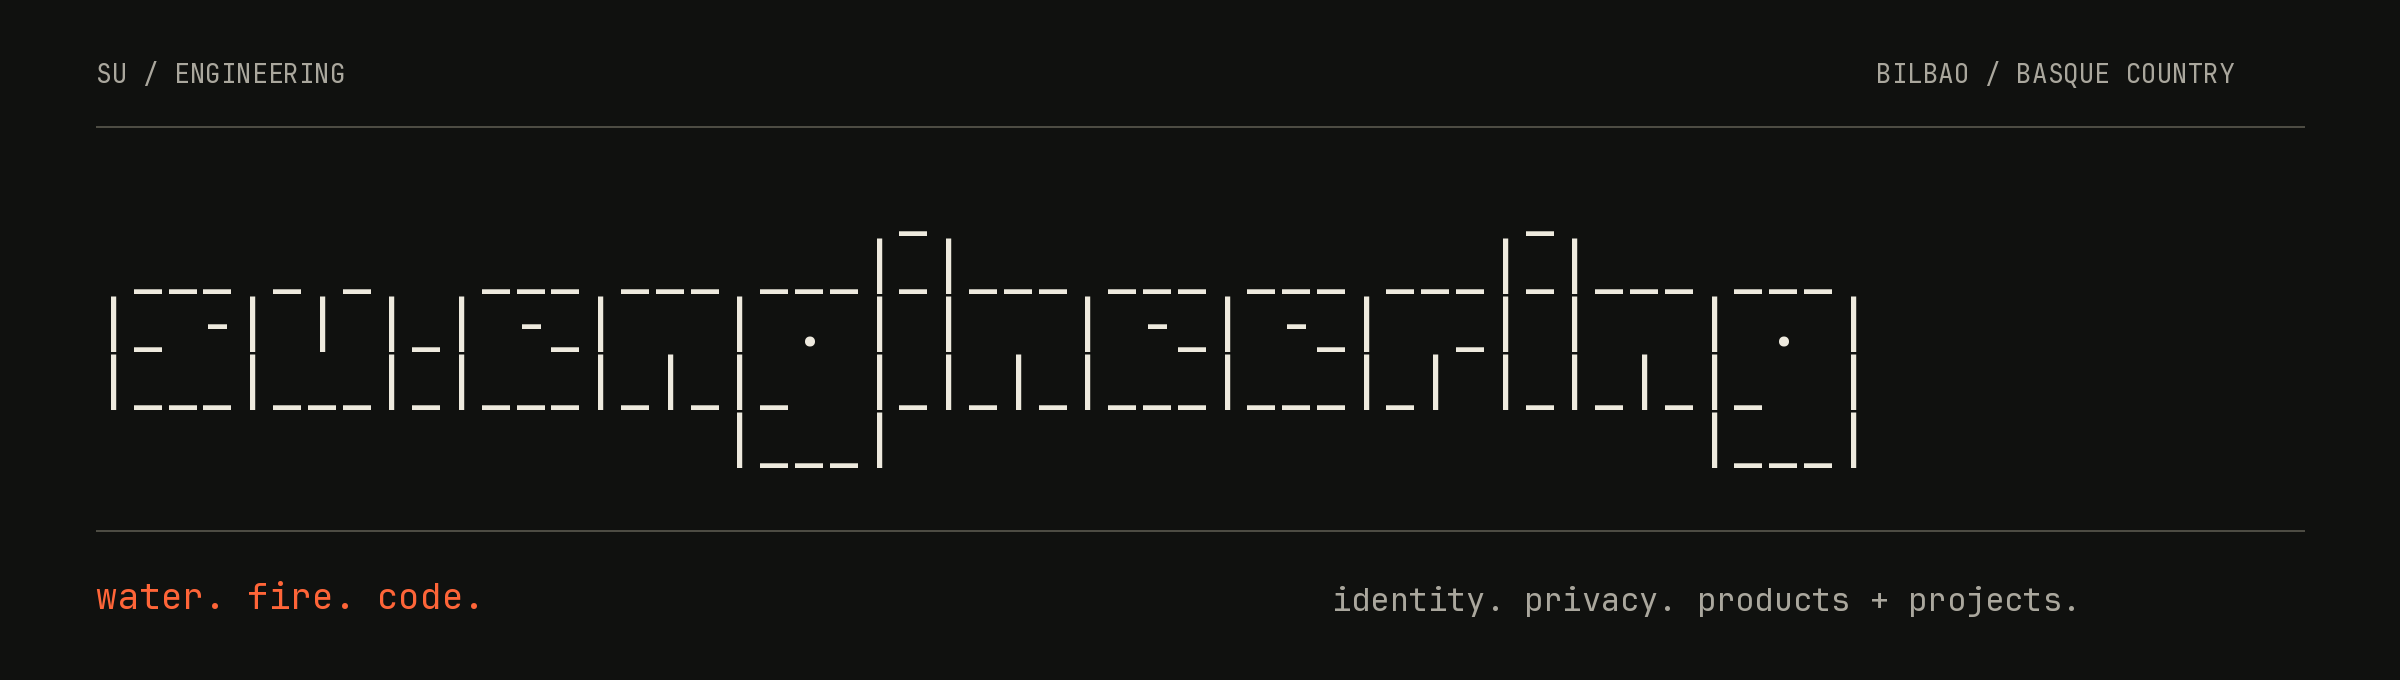
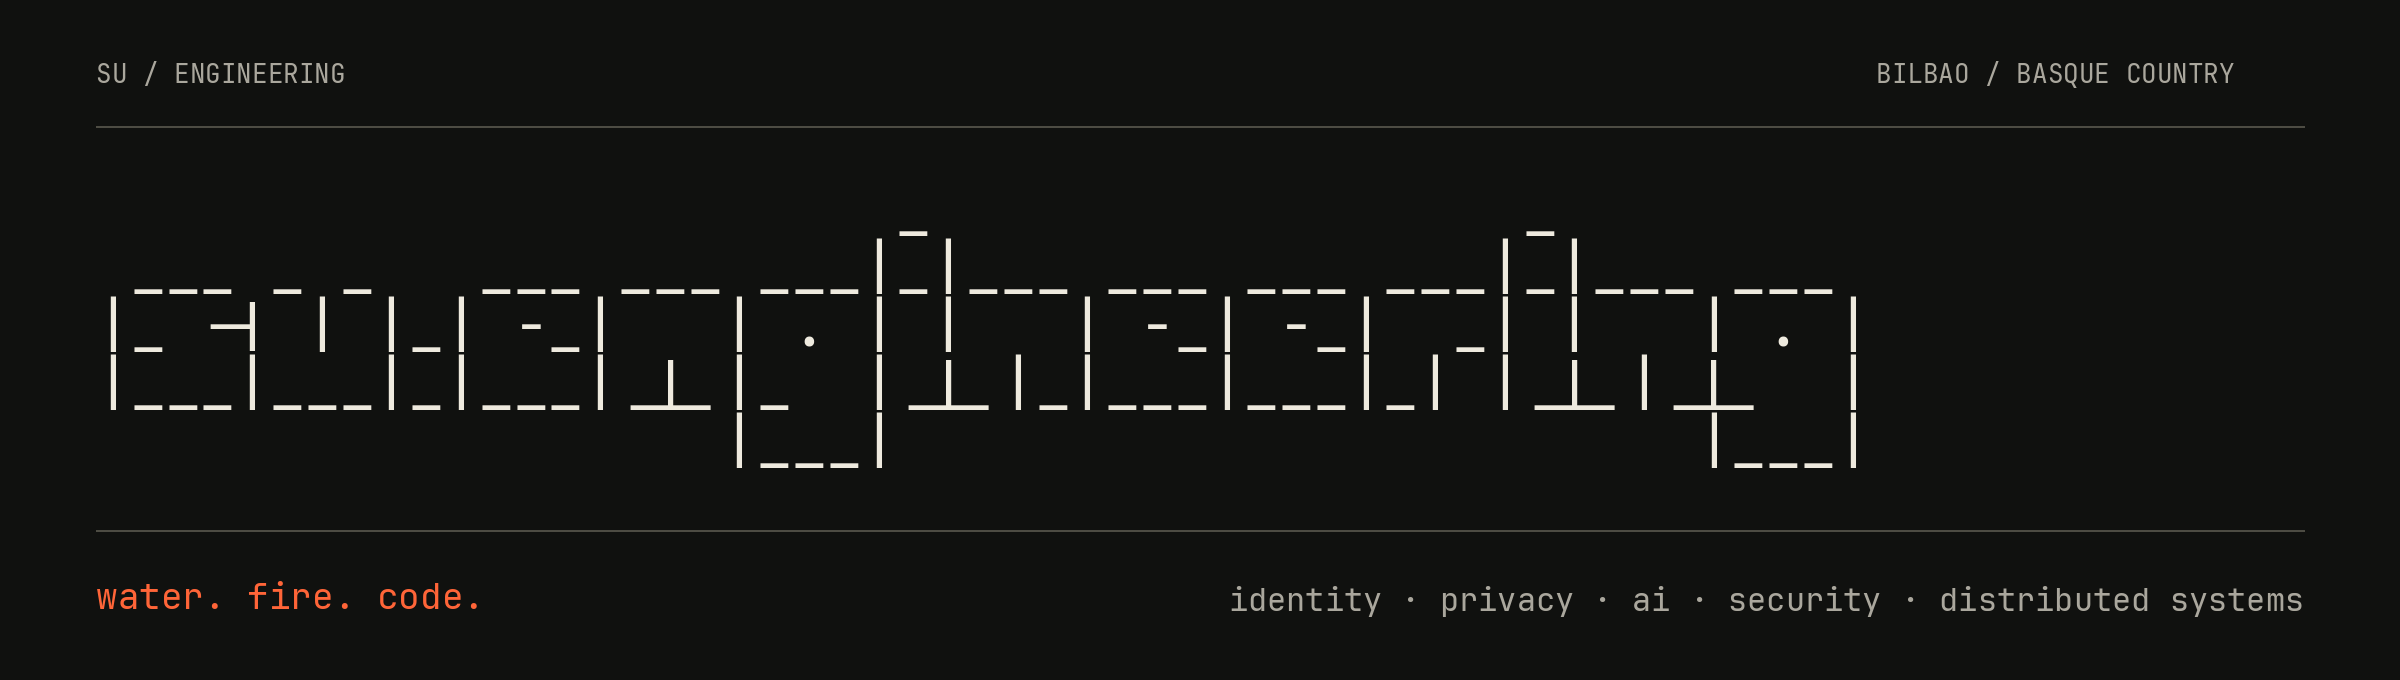
Update organization profile to the services-first website
Lead with project work (Identity & EUDI, Product Engineering, Specialist
Partner), current product status (Velum live, OpenKYC approaching launch,
REM in development), both open-source libraries, /writing instead of the
redirected /blog, and the site's capability line on the banner.

Claude-Session: https://claude.ai/code/session_01EdETLKrgbyXWPVuP4C7qwY

diff --git a/scripts/render_banner.py b/scripts/render_banner.py
@@ -39,7 +39,9 @@ for row, value in enumerate(wordmark):
 
 line((48, 265), (1152, 265), "#4d4c43")
 text((48, 286), "water. fire. code.", 18, "#ff6538")
-text((666, 289), "identity. privacy. products + projects.", 16, "#aaa79d")
+tagline = "identity · privacy · ai · security · distributed systems"
+tagline_font = ImageFont.truetype(args.font, 16 * SCALE)
+text((1152 - draw.textlength(tagline, font=tagline_font) / SCALE, 289), tagline, 16, "#aaa79d")
 
 output = Path(__file__).resolve().parents[1] / "assets" / "banner.png"
 output.parent.mkdir(parents=True, exist_ok=True)

diff --git a/profile/README.md b/profile/README.md
@@ -1,39 +1,44 @@
 <a href="https://su.engineering">
-  <img src="https://raw.githubusercontent.com/su-engineering/.github/main/assets/banner.png" alt="su.engineering — water. fire. code. — identity and privacy engineering in Bilbao" width="1200">
+  <img src="https://raw.githubusercontent.com/su-engineering/.github/main/assets/banner.png" alt="su.engineering: independent product and engineering studio in Bilbao. Identity, privacy, AI, security, distributed systems." width="1200">
 </a>
 
-### identity. privacy. products + projects.
+### We design and build software for hard technical problems.
 
-We're a product studio and engineering practice in **Bilbao, Basque Country**. We build cryptographic infrastructure that returns privacy, value, and control to people and local communities.
+su.engineering is an independent product & engineering studio in **Bilbao, Basque Country**. We help companies, system integrators, enterprise teams and research consortia design and ship technically difficult software.
 
-Two directions, one engineering practice: tools we develop ourselves, and systems we build with clients.
+**Identity · Privacy · AI · Security · Distributed systems**
 
-#### from the studio
+#### project work
 
-| Product | What we're building |
-| :--- | :--- |
-| [**Velum Privacy**](https://velumprivacy.com) | Local protection for AI workflows. Mask personal and sensitive data before it reaches an LLM, then restore it in the reply. |
-| [**openKYC**](https://openkyc.org) | User-held verifiable credentials for reusable identity verification. Carry the proof, share what matters. |
-| [**REM**](https://reconciled.dev) | Reconciled Engineering Memory. Shared, evidence-linked engineering knowledge for teams using AI coding agents. **Private beta.** |
+- **[Identity & EUDI](https://su.engineering/project-work/identity)**: wallets, issuers, verifiers, credentials and interoperability.
+- **[Product Engineering](https://su.engineering/project-work/product-engineering)**: from ambitious technical idea to working product.
+- **[Specialist Partner](https://su.engineering/project-work/partners)**: senior engineering capability inside your existing project.
 
-#### built with you
+We stay small and senior, and build the team around the problem: from one specialist to a full delivery team. Our team brings experience from **30+ enterprise projects**, including work before founding su.engineering.
 
-- **[Identity & EUDI](https://su.engineering/project-work/identity)** — verifiable credentials, wallet integrations, issuer and verifier services, and enterprise identity workflows.
-- **[Privacy engineering](https://su.engineering/project-work/privacy)** — data boundaries, local processing, privacy controls, and AI integrations.
-- **AI, web3 & enterprise software** — engineering for startups, enterprises, and the public sector.
+#### products
 
-Before founding su.engineering, our team built **30+ enterprise projects** across these fields. That experience informs our products and client work.
+We build what we advise on.
 
-#### code & field notes
+| Product | Status | What it is |
+| :--- | :--- | :--- |
+| [**Velum**](https://velumprivacy.com) | Live | Privacy infrastructure for everyday AI workflows. Keeps sensitive information from being exposed to AI tools and other external services. |
+| [**OpenKYC**](https://openkyc.org) | Approaching launch | Reusable identity verification without repeating KYC. Credential-based identity and age verification built on reusable proofs. |
+| [**REM**](https://reconciled.dev) | In development | Shared engineering memory for teams working with AI agents, across developers, repositories and coding tools. |
 
-[**heic-web**](https://github.com/su-engineering/heic-web) — browser-first HEIC/HEIF decoding and JPEG/PNG conversion for TypeScript, with native decoding and an optional lazy WebAssembly fallback.
+#### open source
 
-Our [**engineering notes**](https://su.engineering/blog) cover identity systems, EUDI integrations, and protecting data in AI workflows.
+- [**heic-web**](https://github.com/su-engineering/heic-web): HEIC support for modern web applications, in browsers where native support is limited or inconsistent.
+- [**react-native-nearby-interaction**](https://github.com/su-engineering/react-native-nearby-interaction): Apple's Nearby Interaction framework for React Native apps.
+
+#### writing
+
+[Engineering notes](https://su.engineering/writing) from actual work: digital identity and EUDI, privacy engineering, AI systems, security, distributed systems and product engineering.
 
 ---
 
-**What shall we build together?** [hello@su.engineering](mailto:hello@su.engineering)
+**Bring us the hard part.** [Discuss a project](https://su.engineering/contact) or write to [hello@su.engineering](mailto:hello@su.engineering).
 
-[Website](https://su.engineering) · [Engineering notes](https://su.engineering/blog) · [RSS](https://su.engineering/feed.xml)
+[Website](https://su.engineering) · [Expertise](https://su.engineering/expertise) · [Writing](https://su.engineering/writing) · [RSS](https://su.engineering/feed.xml)
 
-<sub>“su” means water in Turkish and fire in Basque. Precision and fluidity. Technical depth and human purpose.</sub>
+<sub>"su" means water in Turkish and fire in Basque.</sub>

diff --git a/README.md b/README.md
@@ -14,4 +14,4 @@ Install Pillow, then run:
 python scripts/render_banner.py --font /path/to/JetBrainsMono-Regular.ttf
 ```
 
-The profile copy is based on the company's [published content](https://su.engineering/content.json). Keep product availability and public links current.
+The profile copy follows the positioning, project work, products and open-source work published on [su.engineering](https://su.engineering). Keep product status and public links current.
